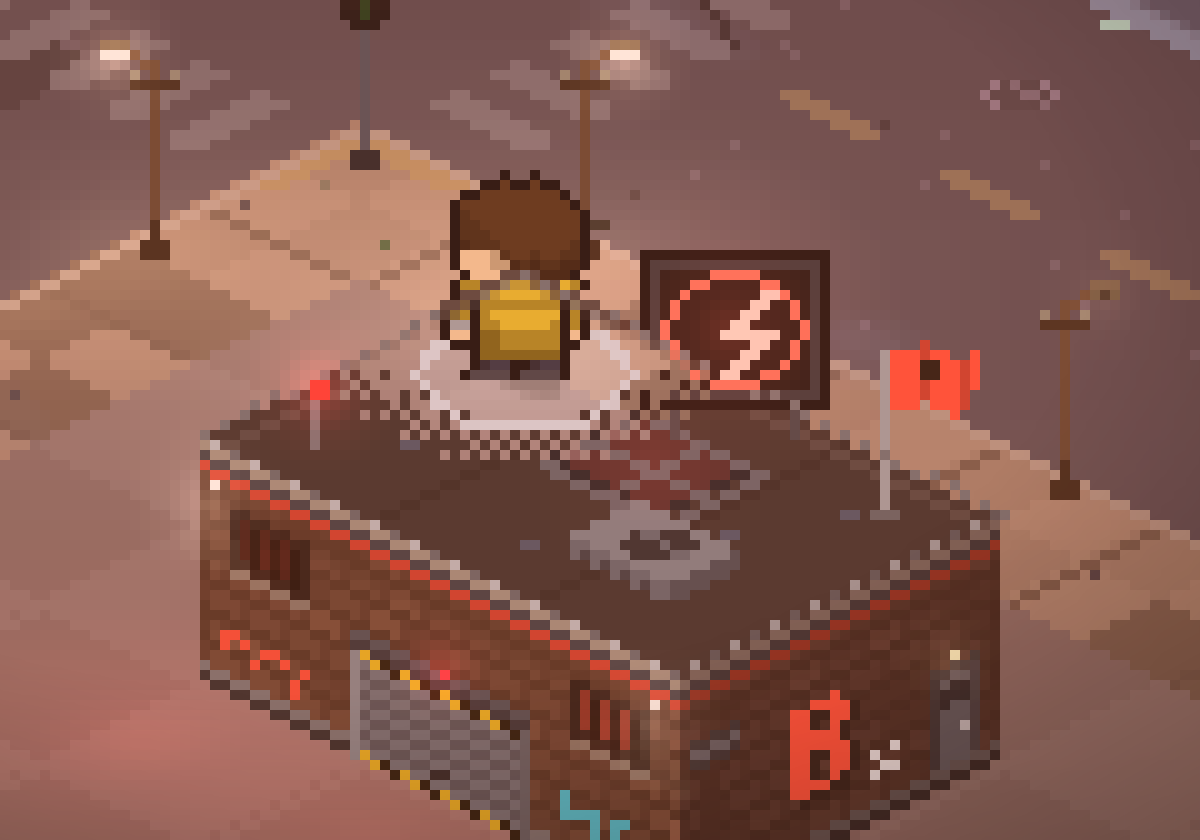
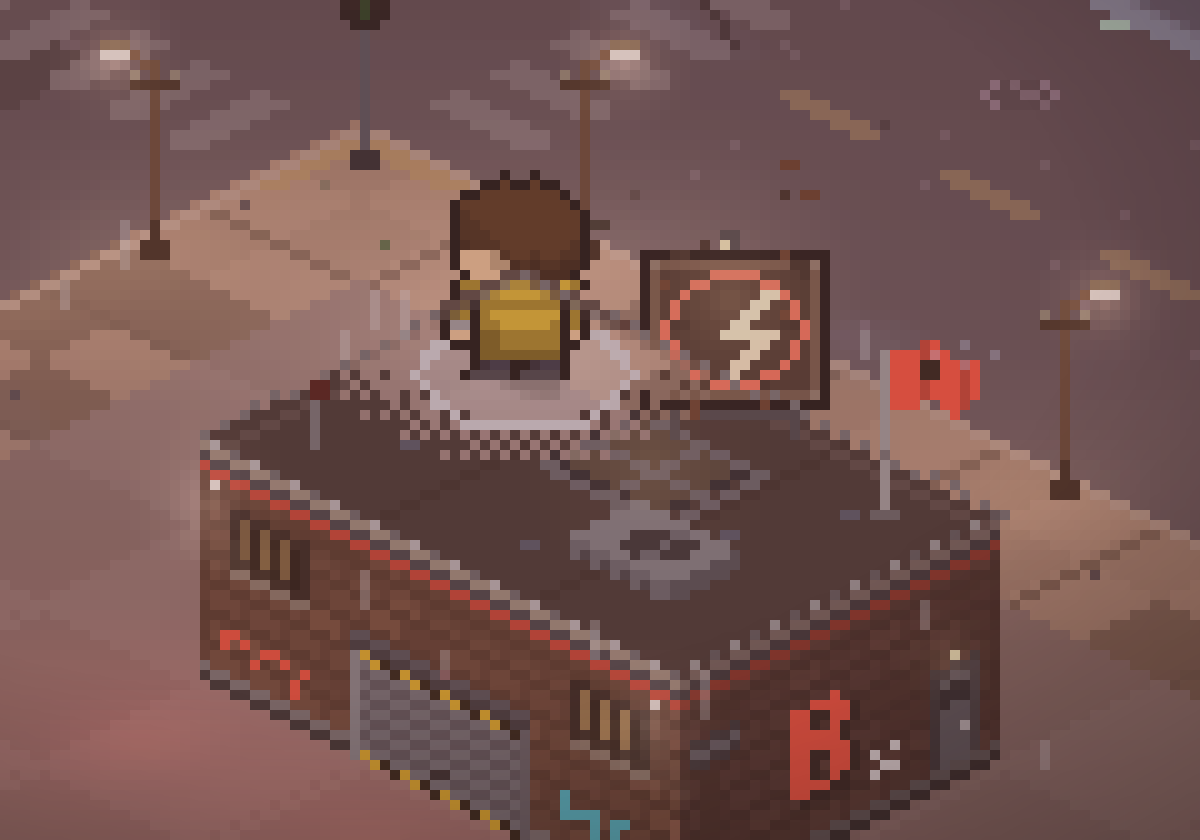
Hideouts: painted steel signs and plain warm light instead of neon
The rooftop emblem is the gang's mark painted on a rusting riveted
plate, lit by a work lamp after dark. Windows, skylight and doorway use
ordinary bulb light rather than gang-coloured glow.

Claude-Session: https://claude.ai/code/session_01TQrqJid8SEs5fJFtrpg3VS

diff --git a/dist/kinetic_city.html b/dist/kinetic_city.html
@@ -6824,13 +6824,13 @@ function drawIsoTower(e) {
 /* ---------- gang hideout: a fortified brick warehouse ----------
    South wall (left face): roll-up shutter gate under a hazard lintel, two barred windows, graffiti.
    East wall (right face): the gang's initial sprayed large, a steel side door, a vent.
-   Roof: the gang's neon emblem on a sign facing the camera, stair hut, skylight, air-conditioning unit, flag, beacon,
+   Roof: the gang's mark painted on a rusting steel sign facing the camera, stair hut, skylight, air-conditioning unit, flag, beacon,
    razor wire on the front parapets.
    The still parts are painted once per hideout into a small canvas and stamped; only what moves or glows is drawn
    live on top (window light, emblem, shutter, lamps, flag, fan). Wall pixels are addressed as (column, row from the
    ground) so hand-placed details sit exactly on the brick. */
 const HIDE_HT = 96, HIDE_ROWS = 24;
-const HIDE_EMBLEM = [   // neon sign on the roof, one per gang: '#' tube, '+' brighter tube
+const HIDE_EMBLEM = [   // the mark painted on the roof sign, one per gang: '#' paint, '+' highlight
   px(`
     ##...........##
     .##.........##.
@@ -6938,11 +6938,14 @@ function hideoutStatic(e, g) {
   { const f = isoXY(x1 - 26, y1 - 21, ht + 8); iellipse(f[0], f[1], 4, 2, '#23262f'); ctx.fillStyle = '#343844'; const s = isoXY(x1 - 36, y1 - 14, ht + 4); for (let i = 1; i < 9; i += 2) ctx.fillRect(Math.round(s[0]) + i, Math.round(s[1]) + (i >> 1), 1, 1); }
   { const m = isoXY(x0 + 12, y1 - 10, ht); ctx.fillStyle = '#6a6e7a'; ctx.fillRect(Math.round(m[0]), Math.round(m[1]) - 5, 1, 5); }   // beacon mast
   { const fp = isoXY(x1 - 12, y0 + 12, ht); ctx.fillStyle = '#9a9ea8'; ctx.fillRect(Math.round(fp[0]), Math.round(fp[1]) - 17, 1, 17); ctx.fillStyle = '#5a5e68'; ctx.fillRect(Math.round(fp[0]) - 1, Math.round(fp[1]) - 1, 3, 1); }   // flag pole
-  // ---- rooftop sign: panel on two legs, tubes unlit here
-  { const [X, Y] = hideoutSign(e), em = HIDE_EMBLEM[e.did % 3];
-    ctx.fillStyle = '#3a3e4a'; ctx.fillRect(X + 2, Y + 14, 1, 4); ctx.fillRect(X + 14, Y + 14, 1, 4);
-    ctx.fillStyle = '#07070c'; ctx.fillRect(X - 1, Y - 1, 19, 16); ctx.fillStyle = '#2c2f3a'; ctx.fillRect(X, Y, 17, 14); ctx.fillStyle = '#0f0d11'; ctx.fillRect(X + 1, Y + 1, 15, 12);
-    em.forEach((row, k) => { for (let i = 0; i < row.length; i++) if (row[i] !== '.') { ctx.fillStyle = '#3a3336'; ctx.fillRect(X + 1 + i, Y + 1 + k, 1, 1); } }); }
+  // ---- rooftop sign: a rusting steel plate on two legs with the gang's mark painted on it (industrial, not neon)
+  { const [X, Y] = hideoutSign(e), em = HIDE_EMBLEM[e.did % 3], paint = live ? mix(col, '#f0e4c8', .25) : '#6a6058', hi = live ? '#f6ecd2' : '#847a70';
+    ctx.fillStyle = '#3a3e4a'; ctx.fillRect(X + 2, Y + 14, 1, 4); ctx.fillRect(X + 14, Y + 14, 1, 4); ctx.fillRect(X + 3, Y + 15, 11, 1);
+    ctx.fillStyle = '#07070c'; ctx.fillRect(X - 1, Y - 1, 19, 16); ctx.fillStyle = '#6a5348'; ctx.fillRect(X, Y, 17, 14); ctx.fillStyle = '#3a2c28'; ctx.fillRect(X + 1, Y + 1, 15, 12);
+    for (let i = 0; i < 14; i++) { const h = hash2(e.hid * 31 + i, 77), rx = X + 1 + h % 15, ry = Y + 1 + (h >> 5) % 12; ctx.fillStyle = (h >> 9) & 1 ? '#5a3424' : '#2c2220'; ctx.fillRect(rx, ry, 1 + ((h >> 11) & 1), 1); }   // rust and grime
+    ctx.fillStyle = '#8a7a70'; for (const [rx, ry] of [[0, 0], [16, 0], [0, 13], [16, 13]]) ctx.fillRect(X + rx, Y + ry, 1, 1);   // rivets
+    em.forEach((row, k) => { for (let i = 0; i < row.length; i++) if (row[i] !== '.') { ctx.fillStyle = row[i] === '+' ? hi : paint; ctx.fillRect(X + 1 + i, Y + 1 + k, 1, 1); } });
+    ctx.fillStyle = '#5a3424'; ctx.fillRect(X + 4, Y + 14, 1, 2); ctx.fillRect(X + 11, Y + 14, 1, 1); }   // rust streaks under it
   // ---- razor wire: loose coils on the front parapets, a plain strand along the back
   for (let i = 1; i < nS; i += 2) put(S(i, 24), i % 4 === 1 ? '#b4b8c2' : '#5e616b');
   for (let i = 1; i < nE; i += 2) put(E(i, 24), i % 4 === 1 ? '#9296a0' : '#4e515a');
@@ -6963,7 +6966,7 @@ function drawIsoHideout(e) {
   const put = (p, c) => { ctx.fillStyle = c; ctx.fillRect(p[0], p[1], 1, 1); };
   // ---- gate: the shutter rolls up once the guards and the tower are down
   const g0 = (nS >> 1) - 8, open = e.gateOpen ? (e.gateT === undefined ? 1 : e.gateT) : 0, sb = Math.round(10 * clamp(open, 0, 1));
-  if (open > 0 && live) { const m = S(g0 + 8, 4); iglow(m[0], m[1], 15, col, .55 * open); for (let i = 0; i < 16; i++) for (let j = 0; j < Math.min(sb, 4); j++) put(S(g0 + i, j), rgba(col, .16 - j * .035)); }   // light from inside on the floor of the doorway
+  if (open > 0 && live) { const m = S(g0 + 8, 4); iglow(m[0], m[1], 15, '#ffb060', .5 * open); for (let i = 0; i < 16; i++) for (let j = 0; j < Math.min(sb, 4); j++) put(S(g0 + i, j), rgba('#ffb060', .16 - j * .035)); }   // light from inside on the floor of the doorway
   for (let j = sb; j < 10; j++) for (let i = 0; i < 16; i++) put(S(g0 + i, j), j === sb ? ((i >> 1) & 1 ? '#17130a' : '#e0b020') : (j - sb) & 1 ? '#666b78' : '#4a4e5a');   // slats, hazard strip on the bottom edge
   if (sb < 9) { put(S(g0 + 7, sb + 2), '#1d1f26'); put(S(g0 + 8, sb + 2), '#1d1f26'); }   // handle
   const lamp = S(g0 + 8, 12);
@@ -6972,22 +6975,18 @@ function drawIsoHideout(e) {
   // ---- lit windows behind their bars
   for (const w0 of [3, nS - 11]) {
     const a = .5 + .22 * Math.sin(t * 3 + w0) + (Math.sin(t * 17 + w0 * 3) > .93 ? -.3 : 0);
-    for (let i = 1; i <= 6; i++) for (let j = 14; j <= 17; j++) put(S(w0 + i, j), i % 2 ? rgba(col, clamp(a, .1, .9)) : '#0a0707');
-    const m = S(w0 + 4, 15); iglow(m[0], m[1], 7, col, .25);
+    for (let i = 1; i <= 6; i++) for (let j = 14; j <= 17; j++) put(S(w0 + i, j), i % 2 ? rgba('#ffc878', clamp(a, .1, .9)) : '#0a0707');   // plain bulb light
+    const m = S(w0 + 4, 15); iglow(m[0], m[1], 7, '#ffc878', .25);
   }
-  // ---- neon emblem; now and then a tube stutters
-  const em = HIDE_EMBLEM[e.did % 3], [sx, sy] = hideoutSign(e), stutter = Math.sin(t * 1.3 + e.hid * 2.1) > .95 && Math.sin(t * 43) > 0;
-  if (!stutter) {
-    const tube = mix(col, '#ffffff', .18), hot = mix(col, '#ffffff', .72);
-    em.forEach((row, k) => { for (let i = 0; i < row.length; i++) if (row[i] !== '.') put([sx + 1 + i, sy + 1 + k], row[i] === '+' ? hot : tube); });
-    iglow(sx + 8, sy + 7, 17, col, .5);
-  }
+  // ---- a work lamp on a gooseneck lights the painted sign after dark
+  { const [sx, sy] = hideoutSign(e); put([sx + 8, sy - 3], '#3a3e4a'); put([sx + 8, sy - 2], '#3a3e4a'); put([sx + 7, sy - 3], '#3a3e4a');
+    if (LIGHT.lamps) { put([sx + 7, sy - 2], '#fff0c8'); iglow(sx + 8, sy + 4, 13, '#ffd9a0', .4); } }
   { const d = E(27, 12); put(d, '#ffe9b8'); iglow(d[0], d[1] + 1, 5, '#ffd9a0', .45); }   // lamp over the side door
   // ---- roof: skylight glow, fan, flag, beacon, floodlights
   const sk = [isoXY(x0 + 40, y0 + 16, ht), isoXY(x0 + 60, y0 + 16, ht), isoXY(x0 + 60, y0 + 32, ht), isoXY(x0 + 40, y0 + 32, ht)];
-  ctx.globalAlpha = .3 + .12 * Math.sin(t * 1.7 + e.hid); ipoly(sk, col); ctx.globalAlpha = 1;
+  ctx.globalAlpha = .3 + .12 * Math.sin(t * 1.7 + e.hid); ipoly(sk, '#ffc878'); ctx.globalAlpha = 1;
   iline(isoXY(x0 + 50, y0 + 14, ht), isoXY(x0 + 50, y0 + 34, ht), '#5a5e6c'); iline(isoXY(x0 + 38, y0 + 24, ht), isoXY(x0 + 62, y0 + 24, ht), '#5a5e6c');
-  { const m = isoXY(x0 + 50, y0 + 24, ht); iglow(m[0], m[1], 12, col, .22); }
+  { const m = isoXY(x0 + 50, y0 + 24, ht); iglow(m[0], m[1], 12, '#ffc878', .22); }
   { const f = isoXY(x1 - 26, y1 - 21, ht + 8), X = Math.round(f[0]), Y = Math.round(f[1]), ph = Math.floor(t * 12) % 3; ctx.fillStyle = '#5d6372';   // fan blade: one short bar turning
     if (ph === 0) ctx.fillRect(X - 2, Y, 5, 1); else if (ph === 1) { ctx.fillRect(X - 2, Y - 1, 2, 1); ctx.fillRect(X, Y, 1, 1); ctx.fillRect(X + 1, Y + 1, 2, 1); } else { ctx.fillRect(X + 1, Y - 1, 2, 1); ctx.fillRect(X, Y, 1, 1); ctx.fillRect(X - 2, Y + 1, 2, 1); } }
   { const fp = isoXY(x1 - 12, y0 + 12, ht), X = Math.round(fp[0]) + 1, Y = Math.round(fp[1]) - 17;   // flag: 9 x 6, rippling

diff --git a/src/js/11f_blocks.js b/src/js/11f_blocks.js
@@ -88,13 +88,13 @@ function drawIsoTower(e) {
 /* ---------- gang hideout: a fortified brick warehouse ----------
    South wall (left face): roll-up shutter gate under a hazard lintel, two barred windows, graffiti.
    East wall (right face): the gang's initial sprayed large, a steel side door, a vent.
-   Roof: the gang's neon emblem on a sign facing the camera, stair hut, skylight, air-conditioning unit, flag, beacon,
+   Roof: the gang's mark painted on a rusting steel sign facing the camera, stair hut, skylight, air-conditioning unit, flag, beacon,
    razor wire on the front parapets.
    The still parts are painted once per hideout into a small canvas and stamped; only what moves or glows is drawn
    live on top (window light, emblem, shutter, lamps, flag, fan). Wall pixels are addressed as (column, row from the
    ground) so hand-placed details sit exactly on the brick. */
 const HIDE_HT = 96, HIDE_ROWS = 24;
-const HIDE_EMBLEM = [   // neon sign on the roof, one per gang: '#' tube, '+' brighter tube
+const HIDE_EMBLEM = [   // the mark painted on the roof sign, one per gang: '#' paint, '+' highlight
   px(`
     ##...........##
     .##.........##.
@@ -202,11 +202,14 @@ function hideoutStatic(e, g) {
   { const f = isoXY(x1 - 26, y1 - 21, ht + 8); iellipse(f[0], f[1], 4, 2, '#23262f'); ctx.fillStyle = '#343844'; const s = isoXY(x1 - 36, y1 - 14, ht + 4); for (let i = 1; i < 9; i += 2) ctx.fillRect(Math.round(s[0]) + i, Math.round(s[1]) + (i >> 1), 1, 1); }
   { const m = isoXY(x0 + 12, y1 - 10, ht); ctx.fillStyle = '#6a6e7a'; ctx.fillRect(Math.round(m[0]), Math.round(m[1]) - 5, 1, 5); }   // beacon mast
   { const fp = isoXY(x1 - 12, y0 + 12, ht); ctx.fillStyle = '#9a9ea8'; ctx.fillRect(Math.round(fp[0]), Math.round(fp[1]) - 17, 1, 17); ctx.fillStyle = '#5a5e68'; ctx.fillRect(Math.round(fp[0]) - 1, Math.round(fp[1]) - 1, 3, 1); }   // flag pole
-  // ---- rooftop sign: panel on two legs, tubes unlit here
-  { const [X, Y] = hideoutSign(e), em = HIDE_EMBLEM[e.did % 3];
-    ctx.fillStyle = '#3a3e4a'; ctx.fillRect(X + 2, Y + 14, 1, 4); ctx.fillRect(X + 14, Y + 14, 1, 4);
-    ctx.fillStyle = '#07070c'; ctx.fillRect(X - 1, Y - 1, 19, 16); ctx.fillStyle = '#2c2f3a'; ctx.fillRect(X, Y, 17, 14); ctx.fillStyle = '#0f0d11'; ctx.fillRect(X + 1, Y + 1, 15, 12);
-    em.forEach((row, k) => { for (let i = 0; i < row.length; i++) if (row[i] !== '.') { ctx.fillStyle = '#3a3336'; ctx.fillRect(X + 1 + i, Y + 1 + k, 1, 1); } }); }
+  // ---- rooftop sign: a rusting steel plate on two legs with the gang's mark painted on it (industrial, not neon)
+  { const [X, Y] = hideoutSign(e), em = HIDE_EMBLEM[e.did % 3], paint = live ? mix(col, '#f0e4c8', .25) : '#6a6058', hi = live ? '#f6ecd2' : '#847a70';
+    ctx.fillStyle = '#3a3e4a'; ctx.fillRect(X + 2, Y + 14, 1, 4); ctx.fillRect(X + 14, Y + 14, 1, 4); ctx.fillRect(X + 3, Y + 15, 11, 1);
+    ctx.fillStyle = '#07070c'; ctx.fillRect(X - 1, Y - 1, 19, 16); ctx.fillStyle = '#6a5348'; ctx.fillRect(X, Y, 17, 14); ctx.fillStyle = '#3a2c28'; ctx.fillRect(X + 1, Y + 1, 15, 12);
+    for (let i = 0; i < 14; i++) { const h = hash2(e.hid * 31 + i, 77), rx = X + 1 + h % 15, ry = Y + 1 + (h >> 5) % 12; ctx.fillStyle = (h >> 9) & 1 ? '#5a3424' : '#2c2220'; ctx.fillRect(rx, ry, 1 + ((h >> 11) & 1), 1); }   // rust and grime
+    ctx.fillStyle = '#8a7a70'; for (const [rx, ry] of [[0, 0], [16, 0], [0, 13], [16, 13]]) ctx.fillRect(X + rx, Y + ry, 1, 1);   // rivets
+    em.forEach((row, k) => { for (let i = 0; i < row.length; i++) if (row[i] !== '.') { ctx.fillStyle = row[i] === '+' ? hi : paint; ctx.fillRect(X + 1 + i, Y + 1 + k, 1, 1); } });
+    ctx.fillStyle = '#5a3424'; ctx.fillRect(X + 4, Y + 14, 1, 2); ctx.fillRect(X + 11, Y + 14, 1, 1); }   // rust streaks under it
   // ---- razor wire: loose coils on the front parapets, a plain strand along the back
   for (let i = 1; i < nS; i += 2) put(S(i, 24), i % 4 === 1 ? '#b4b8c2' : '#5e616b');
   for (let i = 1; i < nE; i += 2) put(E(i, 24), i % 4 === 1 ? '#9296a0' : '#4e515a');
@@ -227,7 +230,7 @@ function drawIsoHideout(e) {
   const put = (p, c) => { ctx.fillStyle = c; ctx.fillRect(p[0], p[1], 1, 1); };
   // ---- gate: the shutter rolls up once the guards and the tower are down
   const g0 = (nS >> 1) - 8, open = e.gateOpen ? (e.gateT === undefined ? 1 : e.gateT) : 0, sb = Math.round(10 * clamp(open, 0, 1));
-  if (open > 0 && live) { const m = S(g0 + 8, 4); iglow(m[0], m[1], 15, col, .55 * open); for (let i = 0; i < 16; i++) for (let j = 0; j < Math.min(sb, 4); j++) put(S(g0 + i, j), rgba(col, .16 - j * .035)); }   // light from inside on the floor of the doorway
+  if (open > 0 && live) { const m = S(g0 + 8, 4); iglow(m[0], m[1], 15, '#ffb060', .5 * open); for (let i = 0; i < 16; i++) for (let j = 0; j < Math.min(sb, 4); j++) put(S(g0 + i, j), rgba('#ffb060', .16 - j * .035)); }   // light from inside on the floor of the doorway
   for (let j = sb; j < 10; j++) for (let i = 0; i < 16; i++) put(S(g0 + i, j), j === sb ? ((i >> 1) & 1 ? '#17130a' : '#e0b020') : (j - sb) & 1 ? '#666b78' : '#4a4e5a');   // slats, hazard strip on the bottom edge
   if (sb < 9) { put(S(g0 + 7, sb + 2), '#1d1f26'); put(S(g0 + 8, sb + 2), '#1d1f26'); }   // handle
   const lamp = S(g0 + 8, 12);
@@ -236,22 +239,18 @@ function drawIsoHideout(e) {
   // ---- lit windows behind their bars
   for (const w0 of [3, nS - 11]) {
     const a = .5 + .22 * Math.sin(t * 3 + w0) + (Math.sin(t * 17 + w0 * 3) > .93 ? -.3 : 0);
-    for (let i = 1; i <= 6; i++) for (let j = 14; j <= 17; j++) put(S(w0 + i, j), i % 2 ? rgba(col, clamp(a, .1, .9)) : '#0a0707');
-    const m = S(w0 + 4, 15); iglow(m[0], m[1], 7, col, .25);
+    for (let i = 1; i <= 6; i++) for (let j = 14; j <= 17; j++) put(S(w0 + i, j), i % 2 ? rgba('#ffc878', clamp(a, .1, .9)) : '#0a0707');   // plain bulb light
+    const m = S(w0 + 4, 15); iglow(m[0], m[1], 7, '#ffc878', .25);
   }
-  // ---- neon emblem; now and then a tube stutters
-  const em = HIDE_EMBLEM[e.did % 3], [sx, sy] = hideoutSign(e), stutter = Math.sin(t * 1.3 + e.hid * 2.1) > .95 && Math.sin(t * 43) > 0;
-  if (!stutter) {
-    const tube = mix(col, '#ffffff', .18), hot = mix(col, '#ffffff', .72);
-    em.forEach((row, k) => { for (let i = 0; i < row.length; i++) if (row[i] !== '.') put([sx + 1 + i, sy + 1 + k], row[i] === '+' ? hot : tube); });
-    iglow(sx + 8, sy + 7, 17, col, .5);
-  }
+  // ---- a work lamp on a gooseneck lights the painted sign after dark
+  { const [sx, sy] = hideoutSign(e); put([sx + 8, sy - 3], '#3a3e4a'); put([sx + 8, sy - 2], '#3a3e4a'); put([sx + 7, sy - 3], '#3a3e4a');
+    if (LIGHT.lamps) { put([sx + 7, sy - 2], '#fff0c8'); iglow(sx + 8, sy + 4, 13, '#ffd9a0', .4); } }
   { const d = E(27, 12); put(d, '#ffe9b8'); iglow(d[0], d[1] + 1, 5, '#ffd9a0', .45); }   // lamp over the side door
   // ---- roof: skylight glow, fan, flag, beacon, floodlights
   const sk = [isoXY(x0 + 40, y0 + 16, ht), isoXY(x0 + 60, y0 + 16, ht), isoXY(x0 + 60, y0 + 32, ht), isoXY(x0 + 40, y0 + 32, ht)];
-  ctx.globalAlpha = .3 + .12 * Math.sin(t * 1.7 + e.hid); ipoly(sk, col); ctx.globalAlpha = 1;
+  ctx.globalAlpha = .3 + .12 * Math.sin(t * 1.7 + e.hid); ipoly(sk, '#ffc878'); ctx.globalAlpha = 1;
   iline(isoXY(x0 + 50, y0 + 14, ht), isoXY(x0 + 50, y0 + 34, ht), '#5a5e6c'); iline(isoXY(x0 + 38, y0 + 24, ht), isoXY(x0 + 62, y0 + 24, ht), '#5a5e6c');
-  { const m = isoXY(x0 + 50, y0 + 24, ht); iglow(m[0], m[1], 12, col, .22); }
+  { const m = isoXY(x0 + 50, y0 + 24, ht); iglow(m[0], m[1], 12, '#ffc878', .22); }
   { const f = isoXY(x1 - 26, y1 - 21, ht + 8), X = Math.round(f[0]), Y = Math.round(f[1]), ph = Math.floor(t * 12) % 3; ctx.fillStyle = '#5d6372';   // fan blade: one short bar turning
     if (ph === 0) ctx.fillRect(X - 2, Y, 5, 1); else if (ph === 1) { ctx.fillRect(X - 2, Y - 1, 2, 1); ctx.fillRect(X, Y, 1, 1); ctx.fillRect(X + 1, Y + 1, 2, 1); } else { ctx.fillRect(X + 1, Y - 1, 2, 1); ctx.fillRect(X, Y, 1, 1); ctx.fillRect(X - 2, Y + 1, 2, 1); } }
   { const fp = isoXY(x1 - 12, y0 + 12, ht), X = Math.round(fp[0]) + 1, Y = Math.round(fp[1]) - 17;   // flag: 9 x 6, rippling

diff --git a/HANDOFF.md b/HANDOFF.md
@@ -30,7 +30,8 @@ A prototype of a top-down superhero/supervillain game inspired by inFamous, GTA 
 - **Name:** the game is called **Gravitation** (the user's words: "something like gravitation", so not final). "Kinetic City" was the working title; the repo, `dist/kinetic_city.html` and the save key keep the old name so nothing breaks.
 - **The main character is Bary Plumb** (the user's spelling: one r). No story text exists yet; rule 5 still holds.
 - **Title screen:** restyled to match the ordinary city: the name as a painted cream sign with a brick-red drop shadow (font Bungee), buttons as green street-sign plates, mustard when selected. No glow. CSS block at the end of the style section in shell.html, scoped to `#title`.
-- **Still neon-styled (the user asked only for the main menu):** the pause menu, the HUD, and the hideouts' rooftop emblem signs.
+- **Gangs look industrial, not techno (user's words).** Hideout roof signs are rusting steel plates with the gang's mark painted on (lit by a work lamp after dark); window, skylight and doorway light is plain warm bulb light, not gang-coloured glow. The older Hideouts note below still says "neon emblem": read it as this painted sign.
+- **Still neon-styled (the user asked only for the main menu):** the pause menu and the HUD.
 - **Pixel art:** buildings (lit/dark windows, shopfronts, neon signs, doors, rooftop clutter), hideouts, characters (8 facings, 4-frame walk), vehicles, props and combat effects.
 - **Shades rule (agreed with the user, keep it):** everyone you are meant to fight wears sunglasses: grunts, brutes, elites, cops, and every current and future boss. The hero and civilians never do. Idea from the user for later: give more important enemies differently tinted or differently shaped shades. Started: the three bosses each have their own shape and tint (`BOSS_LOOK` in 11c_sprites.js: Mr. Cinder round goggles with fire reflected in them, Krag a narrow red slit with a scar, The Architect an angular purple visor); elites have glowing lenses in their gang colour; ordinary gang members and cops share one shape.
 - **Characters:** small (about 16×20 px), cops and gang members wear shades (shades = someone you can fight); the hero and civilians have eyes (a dark pupil with a white pixel beside it, `FACE_ART`). The hero wears a yellow rain jacket with tousled brown hair; his zip and cuffs take the karma colour. An earlier white-spiky-hair-and-shades hero was dropped for looking like Gojo. Five more finished hero looks are stored as `HERO_COSTUMES` in 11c_sprites.js (scarf, headphones, glowhood, varsity, headband) as unlockable costumes. They are picked on the **Costumes** tab of the pause menu (between Skills and Controls); locked ones show as a dark silhouette with the unlock rule. The rules are in `COSTUMES` in 10_game.js and are a first guess, not something the user chose: scarf = Ground Zero done, headband = Slums done, headphones = 4 shards, varsity = level 5, glow hood = all 12 shards. Unlocks are kept for good under `kc_costumes` (they survive a new game and deleting the save); the costume in use is `SETTINGS.costume`. `KC.costume(name)` forces one for a look; `node test/costumes.js` draws them all and checks the tab. A 32 px redraw was tried as a mock-up and rejected as too "anime RPG Maker". Each gang has its own headwear: Rustlers beanies, Breakers mohawks, Architects visored helmets. Brutes and bosses use the big body. Each boss has his own look on top of it: Mr. Cinder has burning hair that flickers and a long coat with a burning hem; Krag is the biggest, bald and bare-armed with spiked shoulders and crossed straps; The Architect wears a robe to the floor under a floating ring and glides instead of walking.
